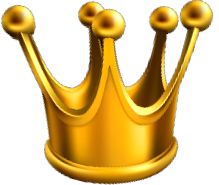
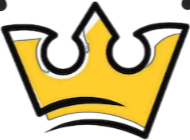
Mejore el footer, cambie la corona, arregle bug de las cards que se salen de la pantalla y camie el estilo de las mismas

diff --git a/web/src/views/Premium.vue b/web/src/views/Premium.vue
@@ -32,15 +32,14 @@
                                                 alt="Globo promocional" width="100"> /
                                             <img src="../../public/contenido/clasico-tachado.png" alt=""></span><img
                                             :src="item.precio" :alt="item.alt"
-                                            v-else-if="item.precio === '../../contenido/clasico-edit.png'"><span v-else>{{
+                                            v-else-if="item.precio === '../../contenido/clasico-edit.png'"><span v-else style="font-weight: 800;">{{
                                                 item.precio }}</span></div>
                                                 <span class="lead" v-if="item.precio != 'Contactanos'" >Mensual</span>
                                     </div>
                                     
-                                    <ul class="p-0 m-auto me-0 mt-1" style="width: 90%;">
-                                        <li v-for="elemento in  item.beneficios" :key="elemento.id" class="text-start"
-                                            style="line-height: 2.2;">{{
-                                                elemento.beneficio }}</li>
+                                    <ul class="p-0 m-auto me-0 mt-1 d-flex flex-column" style="width: 90%; gap: 16px;">
+                                        <li v-for="elemento in  item.beneficios" :key="elemento.id" class="text-start ">
+                                        {{ elemento.beneficio }}</li>
                                     </ul>
                                     <button type="button" class="w-100 btn btn-lg btn-outline-primary m-auto mb-0">{{
                                         item.boton
@@ -210,17 +209,19 @@ export default {
     background-size: cover;
     background-position: center;
     background-attachment: fixed;
-    max-width: 100vw;
+    max-width: 100%;
     min-height: 100vh;
     padding-top: 100px;
 }
 #premium .card {
     min-width: 250px;
     width: auto;
-    max-width: 100vw;
+    max-width: 100%;
     min-height: 100%;
-    background: rgba(255, 255, 255, 0.35);
+    background: #1A1225;
     box-shadow: 0px 0px 20px rgb(220, 154, 241);
+    border: 1px solid #A667E4;
+    color: #A667E4;
     transition: 0.5s;
 }
 
@@ -228,12 +229,15 @@ export default {
     background: rgba(255, 255, 255, 0.7);
     box-shadow: 0px 0px 35px rgb(190, 56, 231);
 }
-
 #premium-presentacion {
     color: antiquewhite;
     z-index: 700;
     top: 105px;
     background-color: #3748A3;
     transition: 0.6s;
+    max-width: 100%;
+}
+main{
+    max-width: 100%;
 }
 </style>

diff --git a/web/src/components/Pie.vue b/web/src/components/Pie.vue
@@ -1,7 +1,8 @@
 <template>
-  <div class="contenedor-footer">
+  
+  <div class="contenedor-footer"></div><div style="background-color: #00518A;">
     <div class="container">
-      <footer class="row row-cols-1 row-cols-sm-2 row-cols-md-3">
+      <footer class="row row-cols-1 row-cols-sm-2 row-cols-md-3 ">
         <div class="col mb-3">
           <a href="/" class=" m-auto mb-1 w-100 d-flex align-items-center link-body-emphasis text-decoration-none">
             <img class="m-auto mb-0" width="100" src="../../public/contenido/sugar-logo.png" alt="">
@@ -23,7 +24,8 @@
           <nav>
             <ul class="nav flex-column">
               <li v-for="item in views" :key="index" class="nav-item mb-2">
-                <router-link :to="item.enlace" class="nav-link p-0" style="color:antiquewhite;">{{ item.link }}</router-link>
+                <router-link :to="item.enlace" class="nav-link p-0" style="color:antiquewhite;">{{ item.link
+                }}</router-link>
               </li>
             </ul>
           </nav>
@@ -32,8 +34,7 @@
       </footer>
     </div>
   </div>
-
-<!--
+  <!--
     <div class="contenedor-footer w-100 h-auto pb-5">
     <div class="w-100 ">
       <footer class="py-3">
@@ -48,7 +49,6 @@
     </div>
   </div>
 -->
-
 </template>
 <script>
 export default {
@@ -117,19 +117,21 @@ export default {
 
 <style>
 .contenedor-footer {
-  background-image: url('../../public/contenido/ola.webp');
+  background-image: url('../../public/contenido/ola.png');
   background-repeat: no-repeat;
   background-size: cover;
   background-position: center;
   background-position-y: bottom;
+
+  width: 100%;
+  height: 80vh;
 }
 
 .redes {
   justify-content: end;
 }
 
-footer{
-  padding-top: 300px;
+footer {
   padding-bottom: 20px;
 }
 
@@ -137,10 +139,12 @@ footer .nav-link {
   color: #423C5D;
   transition: 200ms;
 }
-footer h5{
+
+footer h5 {
+  margin-top: 0;
   font-weight: 900;
   margin-bottom: 15px;
-  color:rgb(13, 4, 53);
+  color: rgb(13, 4, 53);
 }
 
 footer .nav-link:hover {

diff --git a/web/src/main.js b/web/src/main.js
@@ -6,12 +6,17 @@ import "@/assets/bootstrap.bundle.min.js"
 import { createApp } from 'vue'
 
 createApp(App).use(router).mount('#app')
-
-fetch('http://localhost:1337/api/sugar-premios', {
-    method: 'GET',
-    headers: {
-        'Content-Type': 'application/json',
-    },
-})
-    .then(response => response.json())
-    .then(data => console.log(data));
+/*
+try {
+    fetch('http://localhost:1337/api/sugar-premios', {
+        method: 'GET',
+        headers: {
+            'Content-Type': 'application/json',
+        },
+    })
+        .then(response => response.json())
+        .then(data => console.log(data));
+}
+catch (error){
+    console.log(error)
+}*/

diff --git a/web/src/components/Header.vue b/web/src/components/Header.vue
@@ -72,7 +72,9 @@ export default {
     color: rgb(235, 228, 221);
     transition: 300ms;
 }
-
+.corona{
+    margin-left: 4px;
+}
 .nav-link {
     filter: grayscale(1);
 }
@@ -84,7 +86,7 @@ header nav{
     box-shadow: 0px 5px 100px 20px black;
 }
 
-@media only screen and (max-width: 647px) {
+@media only screen and (max-width: 650px) {
     .nav-item a {
         font-size: 0.90rem;
     }
